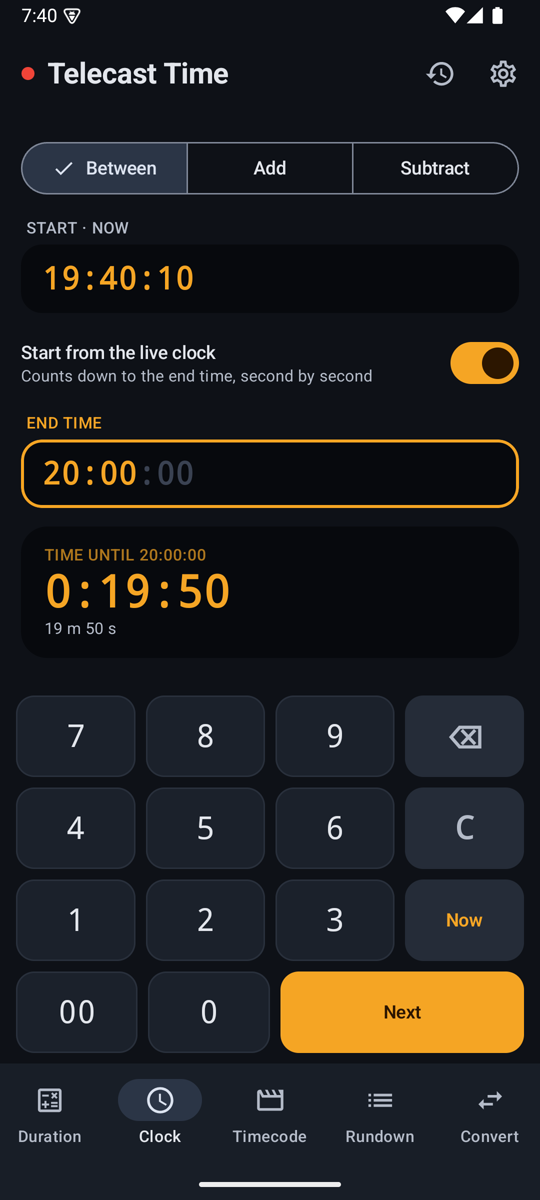
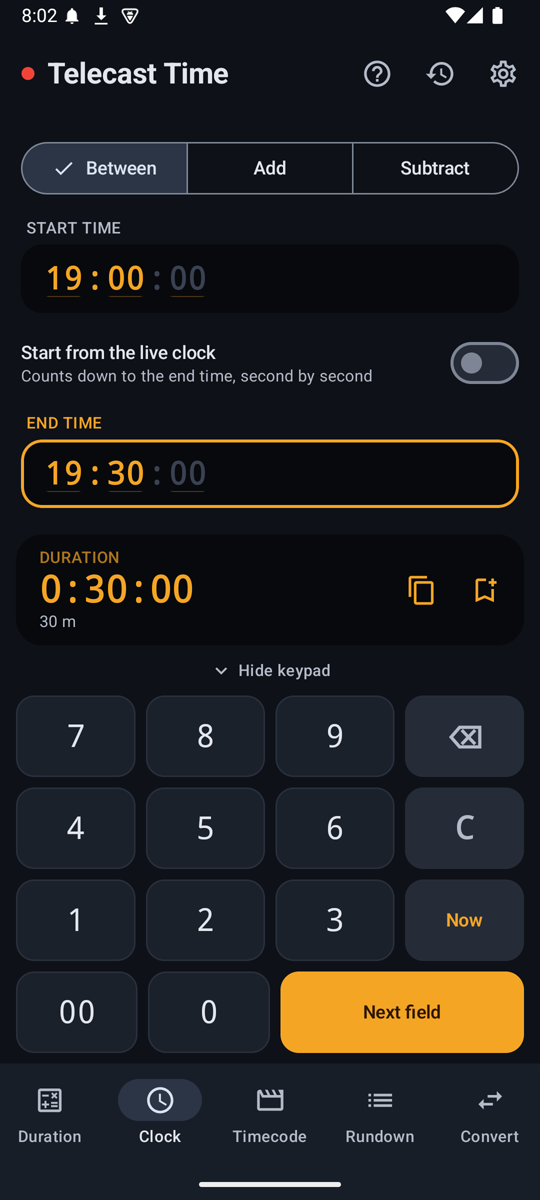
README: 3.3.0 — guided tour and pinned answers

diff --git a/README.md b/README.md
@@ -31,12 +31,12 @@ It's made for master control rooms, edit suites, newsrooms, and anyone else who 
   <tr>
     <td align="center"><img src="screenshots/01-duration.png" width="230" alt="Duration tape"><br><sub><b>Duration tape with running totals</b></sub></td>
     <td align="center"><img src="screenshots/02-timecode.png" width="230" alt="Drop-frame timecode"><br><sub><b>Frame-accurate drop-frame timecode</b></sub></td>
-    <td align="center"><img src="screenshots/03-clock.png" width="230" alt="Live countdown"><br><sub><b>Live countdown to air</b></sub></td>
+    <td align="center"><img src="screenshots/03-clock.png" width="230" alt="Clock with the answer pinned above the keypad"><br><sub><b>Answer pinned above the keypad</b></sub></td>
   </tr>
   <tr>
     <td align="center"><img src="screenshots/04-rundown.png" width="230" alt="Rundown"><br><sub><b>Rundown with over/under</b></sub></td>
     <td align="center"><img src="screenshots/05-convert.png" width="230" alt="Convert"><br><sub><b>One value in every unit</b></sub></td>
-    <td align="center"><img src="screenshots/06-history.png" width="230" alt="History"><br><sub><b>History saved on your phone</b></sub></td>
+    <td align="center"><img src="screenshots/06-tour.png" width="230" alt="Guided tour"><br><sub><b>A guided tour for new users</b></sub></td>
   </tr>
   <tr>
     <td align="center"><img src="screenshots/07-keypad-folded.png" width="230" alt="Keypad folded away"><br><sub><b>Keypad folded into a button</b></sub></td>
@@ -50,6 +50,7 @@ It's made for master control rooms, edit suites, newsrooms, and anyone else who 
 
 | | |
 |---|---|
+| 🧭 **Guided tour** | A short walkthrough spotlights every tool and button the first time you open the app. Replay it any time with the **?** button. |
 | 🧮 **Duration tape** | Works like an adding machine for time. Add and subtract durations, multiply or divide by a number, and every line shows its running total. Tap ⌫ on an empty entry to pull the last line back and fix it. |
 | ⏱ **Clock** | How long between two times of day, even across midnight. Or a time plus or minus a duration, with "next day" or "previous day" when it crosses one. Fill a field with **Now** in one tap. |
 | 🔴 **Live countdown** | Switch on *Start from the live clock* and the Clock screen counts down to your end time every second: "on air in 0:19:50". |
@@ -59,6 +60,7 @@ It's made for master control rooms, edit suites, newsrooms, and anyone else who 
 | 🎯 **Edit one part** | Tap the hours, minutes, seconds or frames of any time to edit only that part. Type into it, or step it with **−** and **+** (hold to keep going). Steps carry over, and drop-frame steps skip the missing frame numbers. |
 | ⌨ **Fold the keypad away** | Tap *Hide keypad* or swipe it down and it shrinks to a floating button, leaving more room for the tape and results. Tap the button, or any field, to bring it back. |
 | 🔁 **Convert** | Type `90`, `1.5` or `1:30:00`, or fill in separate hours, minutes, seconds and frames, and see it in milliseconds, frames, seconds, minutes, hours, days and weeks, plus as timecode. Tap any row to copy it. |
+| 📌 **Answer in view** | On Clock and Timecode the result is pinned above the keypad, with **Copy** and **Save** buttons, so it never scrolls away while you type. |
 | 🕘 **History** | Duration sums are saved automatically, and other results are saved with one tap. Tap to copy, or reopen a sum on the tape and keep going. |
 | 🌗 **Light and dark** | Follows your phone, or pick light or dark. Readouts use fixed-width digits so they don't jump while you type. |
 | ⚙ **Your way** | Choose a 12- or 24-hour clock, a default frame rate (25 fps out of the box), and whether the keys vibrate. |
@@ -130,6 +132,8 @@ Only on your phone. History, the rundown and your settings are kept in the app's
 </details>
 
 ## What's new
+
+**3.3.0** adds a guided tour of the whole app, pins the answer above the keypad with Copy and Save buttons, and makes the Duration tape say what to type next.
 
 **3.2.0** makes updates download through your browser. The app no longer asks for permission to install apps, which stops Google Play Protect flagging it during installation.
 
